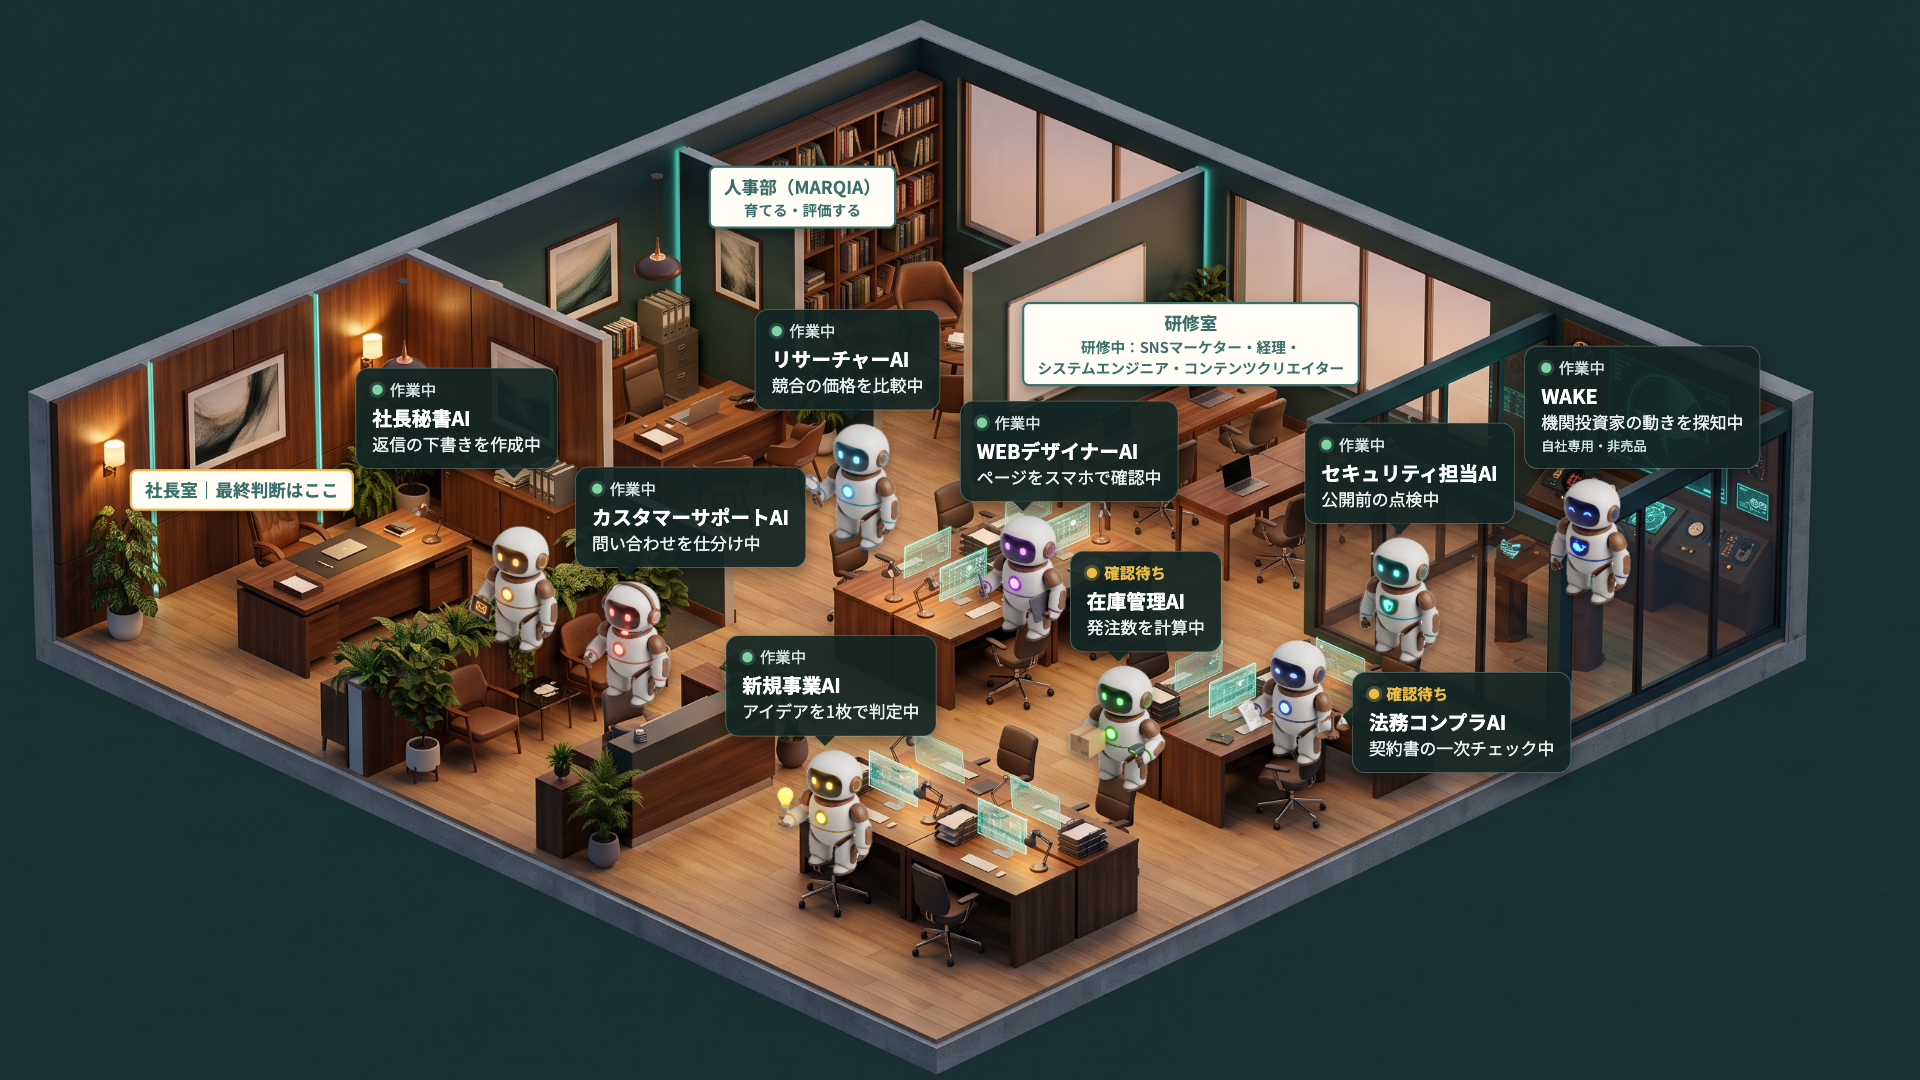
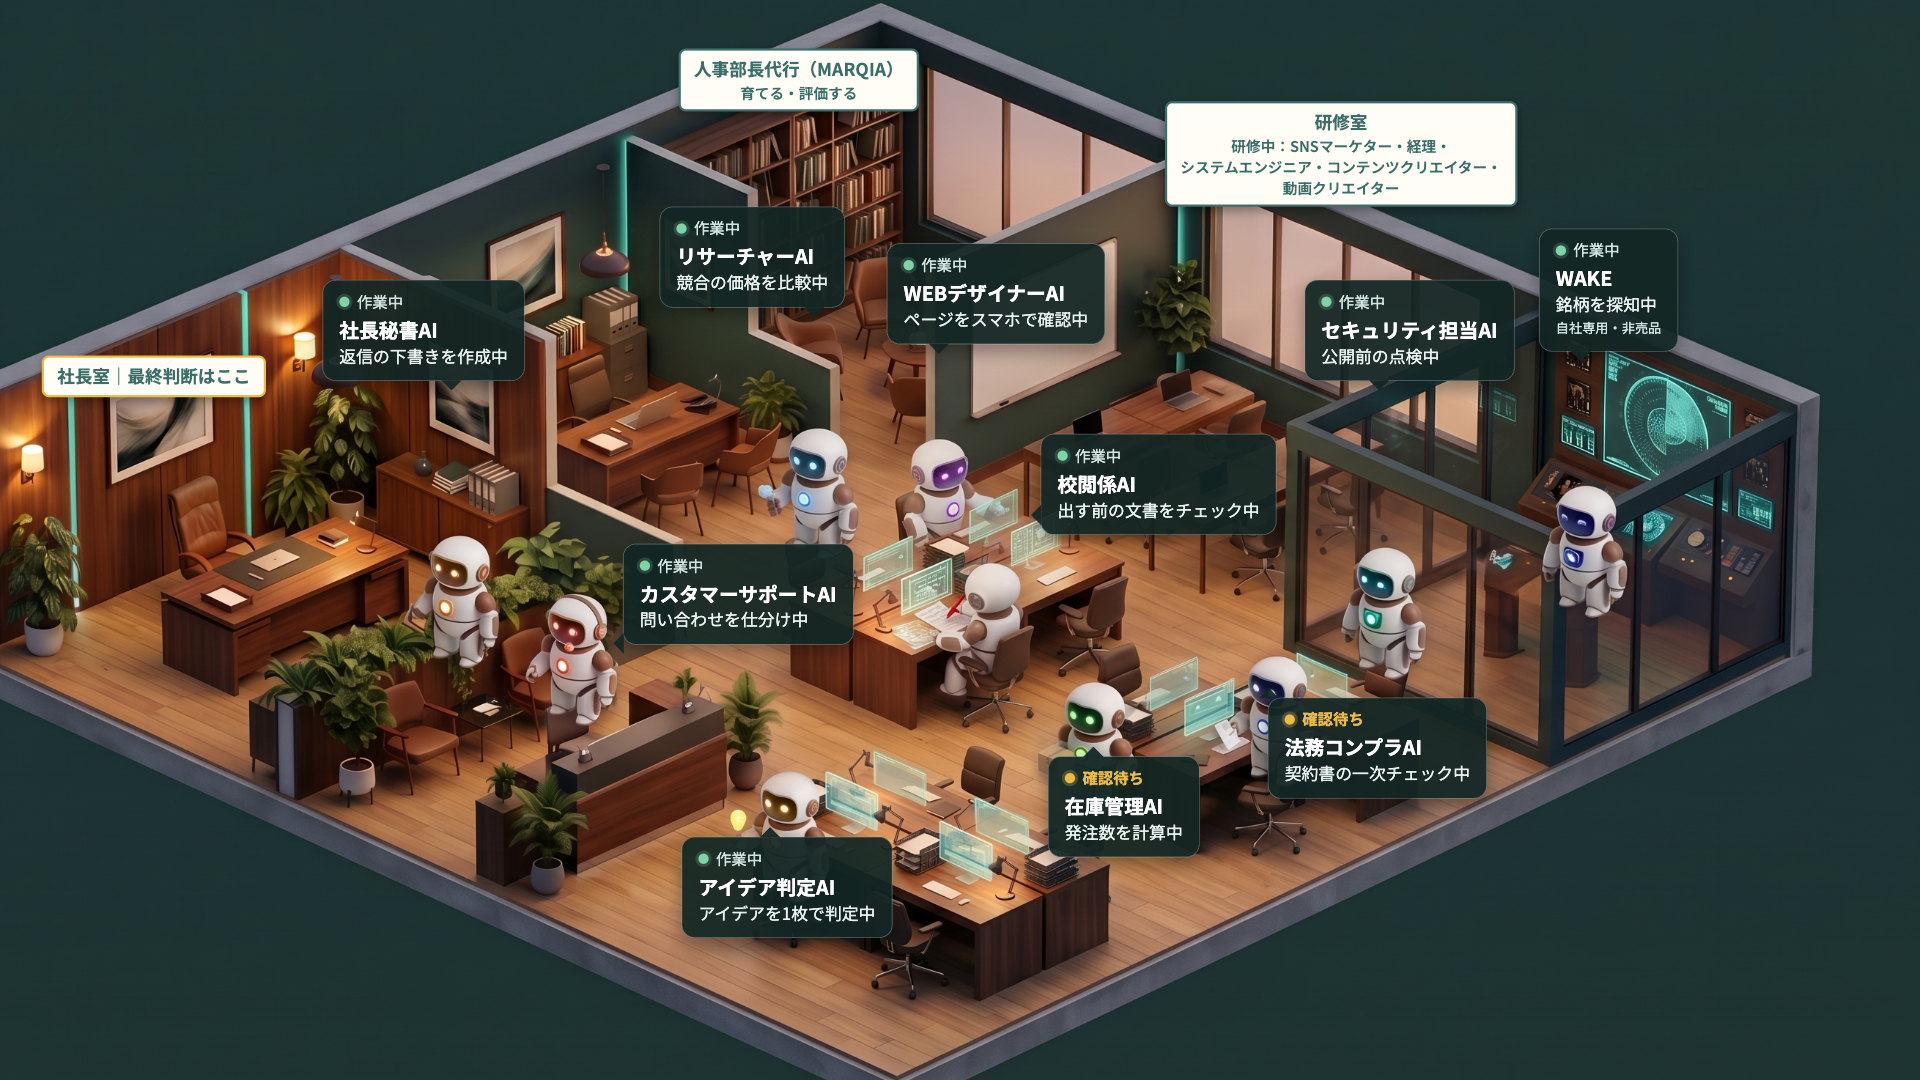
feat: AI社員のオフィス画像を作り直し（新しい元絵・校閲係AI/アイデア判定AIを追加）

diff --git a/index.html b/index.html
@@ -103,10 +103,10 @@
         <p class="lead">判断するのは人です。</p>
         <figure class="office">
           <!-- タップで拡大（JSが動かないときはPNGを直接開く） -->
-          <a class="office-zoom" href="assets/images/office/office_lp.png" data-dialog="office-dialog" aria-label="AI社員のオフィスの画像を拡大する">
+          <a class="office-zoom" href="assets/images/office/office_lp.png?v=20261021" data-dialog="office-dialog" aria-label="AI社員のオフィスの画像を拡大する">
             <picture>
-              <source srcset="assets/images/office/office_lp.webp" type="image/webp" />
-              <img src="assets/images/office/office_lp.png" alt="AI社員のオフィスのイラスト。社長秘書AI、リサーチャーAI、カスタマーサポートAI、WEBデザイナーAI、アイデア判定AI、在庫管理AI、セキュリティ担当AI、法務コンプラAI、WAKEが、それぞれの席で仕事をしている。在庫管理AIと法務コンプラAIは社長の確認待ち。社長室には「最終判断はここ」の札がある。" width="1920" height="1080" loading="lazy" />
+              <source srcset="assets/images/office/office_lp.webp?v=20261021" type="image/webp" />
+              <img src="assets/images/office/office_lp.png?v=20261021" alt="AI社員のオフィスのイラスト。社長秘書AI、リサーチャーAI、カスタマーサポートAI、WEBデザイナーAI、校閲係AI、アイデア判定AI、在庫管理AI、セキュリティ担当AI、法務コンプラAI、WAKEが、それぞれの席で仕事をしている。在庫管理AIと法務コンプラAIは社長の確認待ち。社長室には「最終判断はここ」の札がある。" width="1920" height="1080" loading="lazy" />
             </picture>
             <span class="zoom-hint" aria-hidden="true">タップで拡大</span>
           </a>
@@ -116,8 +116,8 @@
           <div class="office-dialog-bar"><span class="scroll-hint">左右にスクロールできます</span><button type="button" class="office-close">閉じる</button></div>
           <div class="office-scroll">
             <picture>
-              <source srcset="assets/images/office/office_lp.webp" type="image/webp" />
-              <img src="assets/images/office/office_lp.png" alt="" width="1920" height="1080" loading="lazy" />
+              <source srcset="assets/images/office/office_lp.webp?v=20261021" type="image/webp" />
+              <img src="assets/images/office/office_lp.png?v=20261021" alt="" width="1920" height="1080" loading="lazy" />
             </picture>
           </div>
         </dialog>
